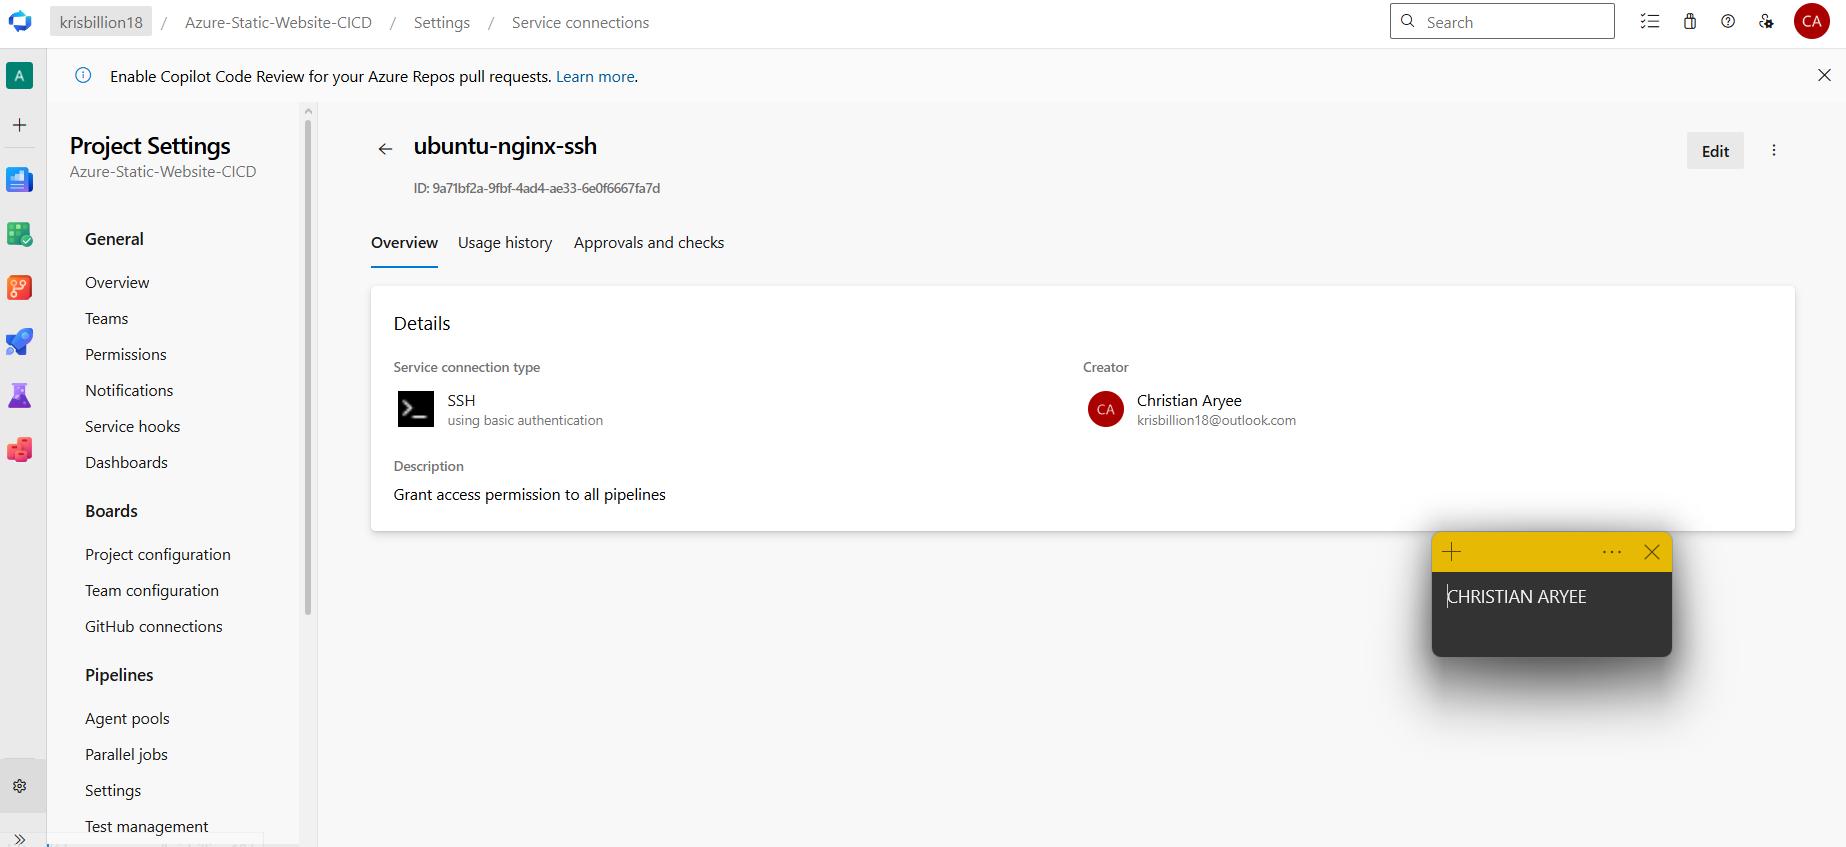
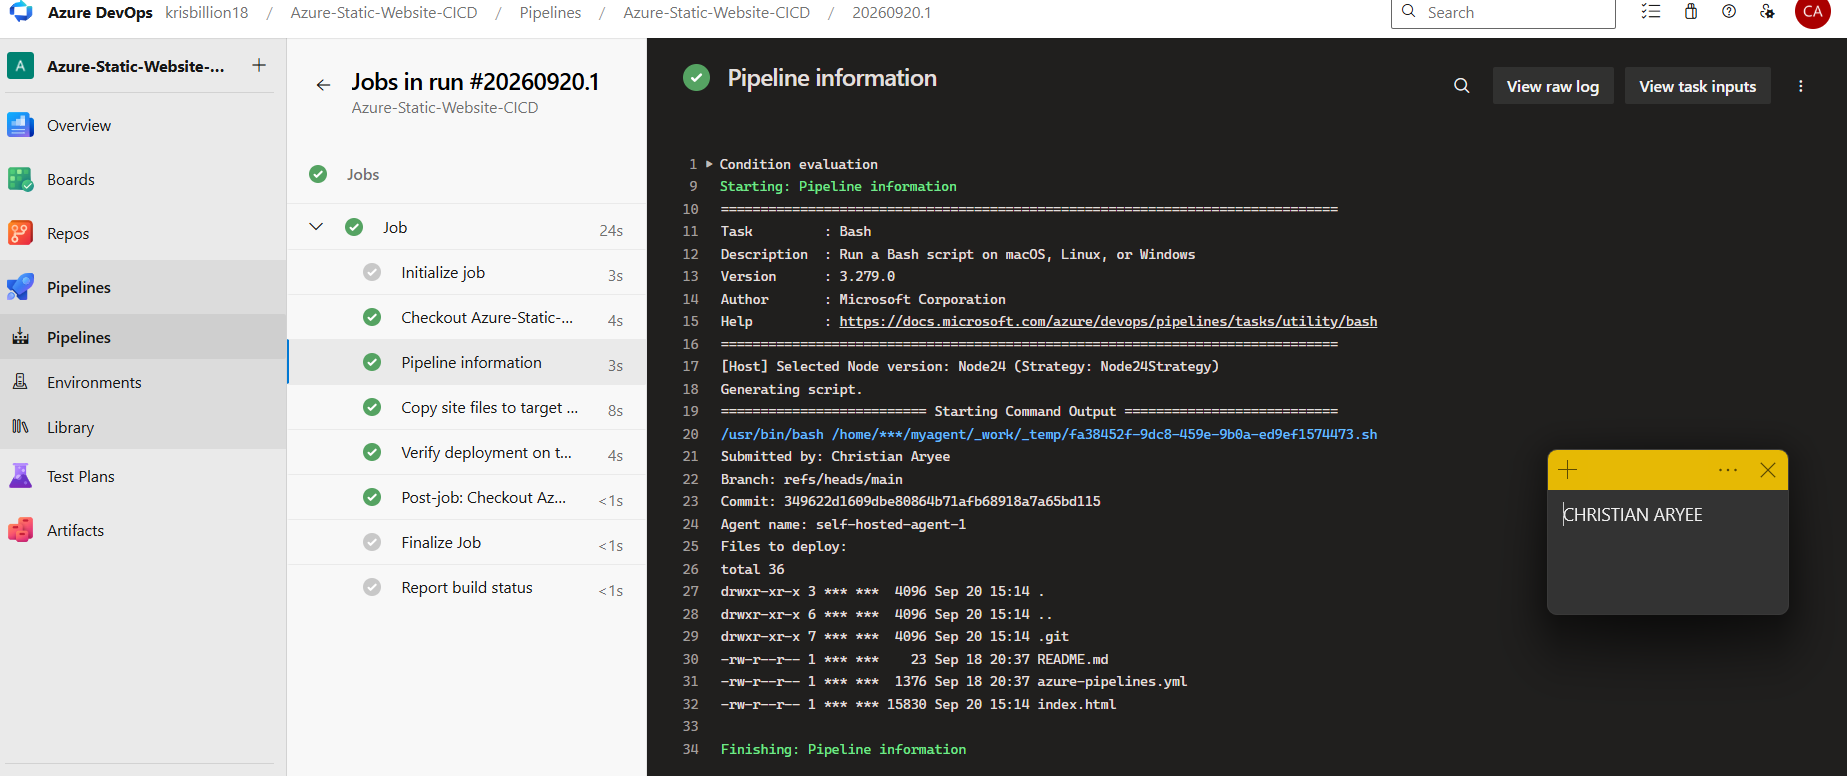
Complete Week 10 Assignment 2: pipeline evidence and LinkedIn link

diff --git a/week-10-azure-devops/assignment-02-deploy-a-static-website-to-aws-ec2-using-an-azure-devops-cicd-pipeline.md b/week-10-azure-devops/assignment-02-deploy-a-static-website-to-aws-ec2-using-an-azure-devops-cicd-pipeline.md
@@ -54,7 +54,7 @@ Create an Azure DevOps SSH Service Connection that can connect to the target EC2
 
 ### Screenshot 2 — SSH Service Connection
 
-![Screenshot 2 — SSH Service Connection `ubuntu-nginx-ssh` overview](screenshots/assignment-02-screenshot-04.png)
+![Screenshot 2 — SSH Service Connection ubuntu-nginx-ssh overview](screenshots/assignment-02-screenshot-04b.png)
 
 ---
 
@@ -68,7 +68,7 @@ Create an Azure DevOps YAML pipeline that deploys the Azure Static Website to th
 
 ### Screenshot 3 — Azure Pipelines YAML
 
-![Screenshot 3 — azure-pipelines.yml open in the Azure Repos editor](screenshots/assignment-02-screenshot-05.png)
+![Screenshot 3 — azure-pipelines.yml showing trigger, pool, variables, checkout, pipeline information, CopyFilesOverSSH@0 and SSH@0](screenshots/assignment-02-screenshot-03a.png)
 
 ---
 
@@ -82,7 +82,13 @@ Run the Azure DevOps pipeline and confirm that the website files are transferred
 
 ### Screenshot 4 — Successful Pipeline Run
 
-![Screenshot 4 — Successful pipeline run](screenshots/assignment-02-screenshot-06b.png)
+![Screenshot 4 — Successful pipeline run summary, run 20260920.3](screenshots/assignment-02-screenshot-04c.png)
+
+![Screenshot 4 — Pipeline information step showing Submitted by: Christian Aryee, all steps green](screenshots/assignment-02-screenshot-04d.png)
+
+### First attempt (failed before I fixed the SSH key)
+
+![First run failed with Cannot parse privateKey: Unsupported key format](screenshots/assignment-02-screenshot-06aa.png)
 
 ---
 
@@ -96,7 +102,11 @@ Confirm that the website is accessible through the EC2 public IP address and tha
 
 ### Screenshot 5 — Deployed Azure Static Website
 
-![Screenshot 5 — Deployed website with the EC2 public IP in the address bar](screenshots/assignment-02-screenshot-07.png)
+![Screenshot 5 — Deployed website with the EC2 public IP in the address bar and the updated CI/CD deployed footer](screenshots/assignment-02-screenshot-05b.png)
+
+### Automatic trigger proof
+
+![Pipeline run 20260920.1 started by Individual CI after the commit Update footer to test auto-trigger](screenshots/assignment-02-screenshot-05c.png)
 
 ## Final Website URL
 
@@ -110,17 +120,19 @@ I imported the Azure Static Website into Azure Repos, then used Terraform to pro
 
 Issue faced: the first run failed with "Cannot parse privateKey: Unsupported key format". The key was valid, but when I pasted it into the Service Connection I had copied only the base64 body and missed the `-----BEGIN-----` and `-----END-----` lines. I fixed it by using the "Upload SSH private key file" option instead of pasting. After re-saving the connection, the pipeline succeeded end to end.
 
+To prove the automatic trigger, I changed the website footer and committed to `main`. Run 20260920.1 started by itself as an Individual CI run and the live site updated. A later commit silenced curl's progress output in the verify step, and run 20260920.3 finished with no errors.
+
 ---
 
 # LinkedIn Requirement
 
 ## LinkedIn Post Screenshot
 
-Add your LinkedIn post screenshot here.
+![LinkedIn Post Screenshot](screenshots/assignment-02-screenshot-08.png)
 
 ## LinkedIn Post URL
 
-[Paste your public LinkedIn post URL here]
+[LinkedIn Post URL](https://www.linkedin.com/posts/caryee_dmibypravinmishra-devops-terraform-ugcPost-7507477580737007616-bWZ7/?utm_source=share&utm_medium=member_desktop&rcm=ACoAACP6ElcBF7-kOglrea_3V5oUhVp4NSh-Trc)
 
 ---
 

diff --git a/README.md b/README.md
@@ -140,7 +140,7 @@ Week 09 → Ansible
 | 07 | Azure Cloud | ✅ Completed | ✅ Solved | https://www.linkedin.com/posts/caryee_dmibypravinmishra-azure-devops-activity-7499935665317646336-Gk_h?utm_source=share&utm_medium=member_desktop&rcm=ACoAACP6ElcBF7-kOglrea_3V5oUhVp4NSh-Trc | https://medium.com/@chrispok18/hosting-a-website-with-no-server-a-static-site-on-azure-storage-3d16dd0be270?sharedUserId=chrispok18 |
 | 08 | Terraform | ✅ Completed | ✅ Solved | https://www.linkedin.com/posts/caryee_dmibypravinmishra-aws-terraform-ugcPost-7502502626606014464-ynAz/?utm_source=share&utm_medium=member_desktop&rcm=ACoAACP6ElcBF7-kOglrea_3V5oUhVp4NSh-Trc | https://medium.com/@chrispok18/deploying-a-react-app-on-azure-with-terraform-a-beginners-walkthrough-2a6a997ad949 |
 | 09 | Ansible | ✅ Completed | ✅ Solved | https://www.linkedin.com/posts/caryee_dmibypravinmishra-terraform-ansible-ugcPost-7504687986182176768-mgY4/?utm_source=share&utm_medium=member_desktop&rcm=ACoAACP6ElcBF7-kOglrea_3V5oUhVp4NSh-Trc | https://medium.com/@chrispok18/the-hang-that-wasnt-infinite-0a0b1602debb |
-| 10 | Azure DevOps (CI/CD) | ⬜ Not Started | ⏳ Pending | — | — |
+| 10 | Azure DevOps (CI/CD) | ✅ Completed | ✅ Solved | https://www.linkedin.com/posts/caryee_dmibypravinmishra-devops-terraform-ugcPost-7507477580737007616-bWZ7/?utm_source=share&utm_medium=member_desktop&rcm=ACoAACP6ElcBF7-kOglrea_3V5oUhVp4NSh-Trc | — |
 | 11 | Docker | ⬜ Not Started | ⏳ Pending | — | — |
 | 12 | Kubernetes | ⬜ Not Started | ⏳ Pending | — | — |
 | 13 | Final Project | ⬜ Not Started | ⏳ Pending | — | — |
